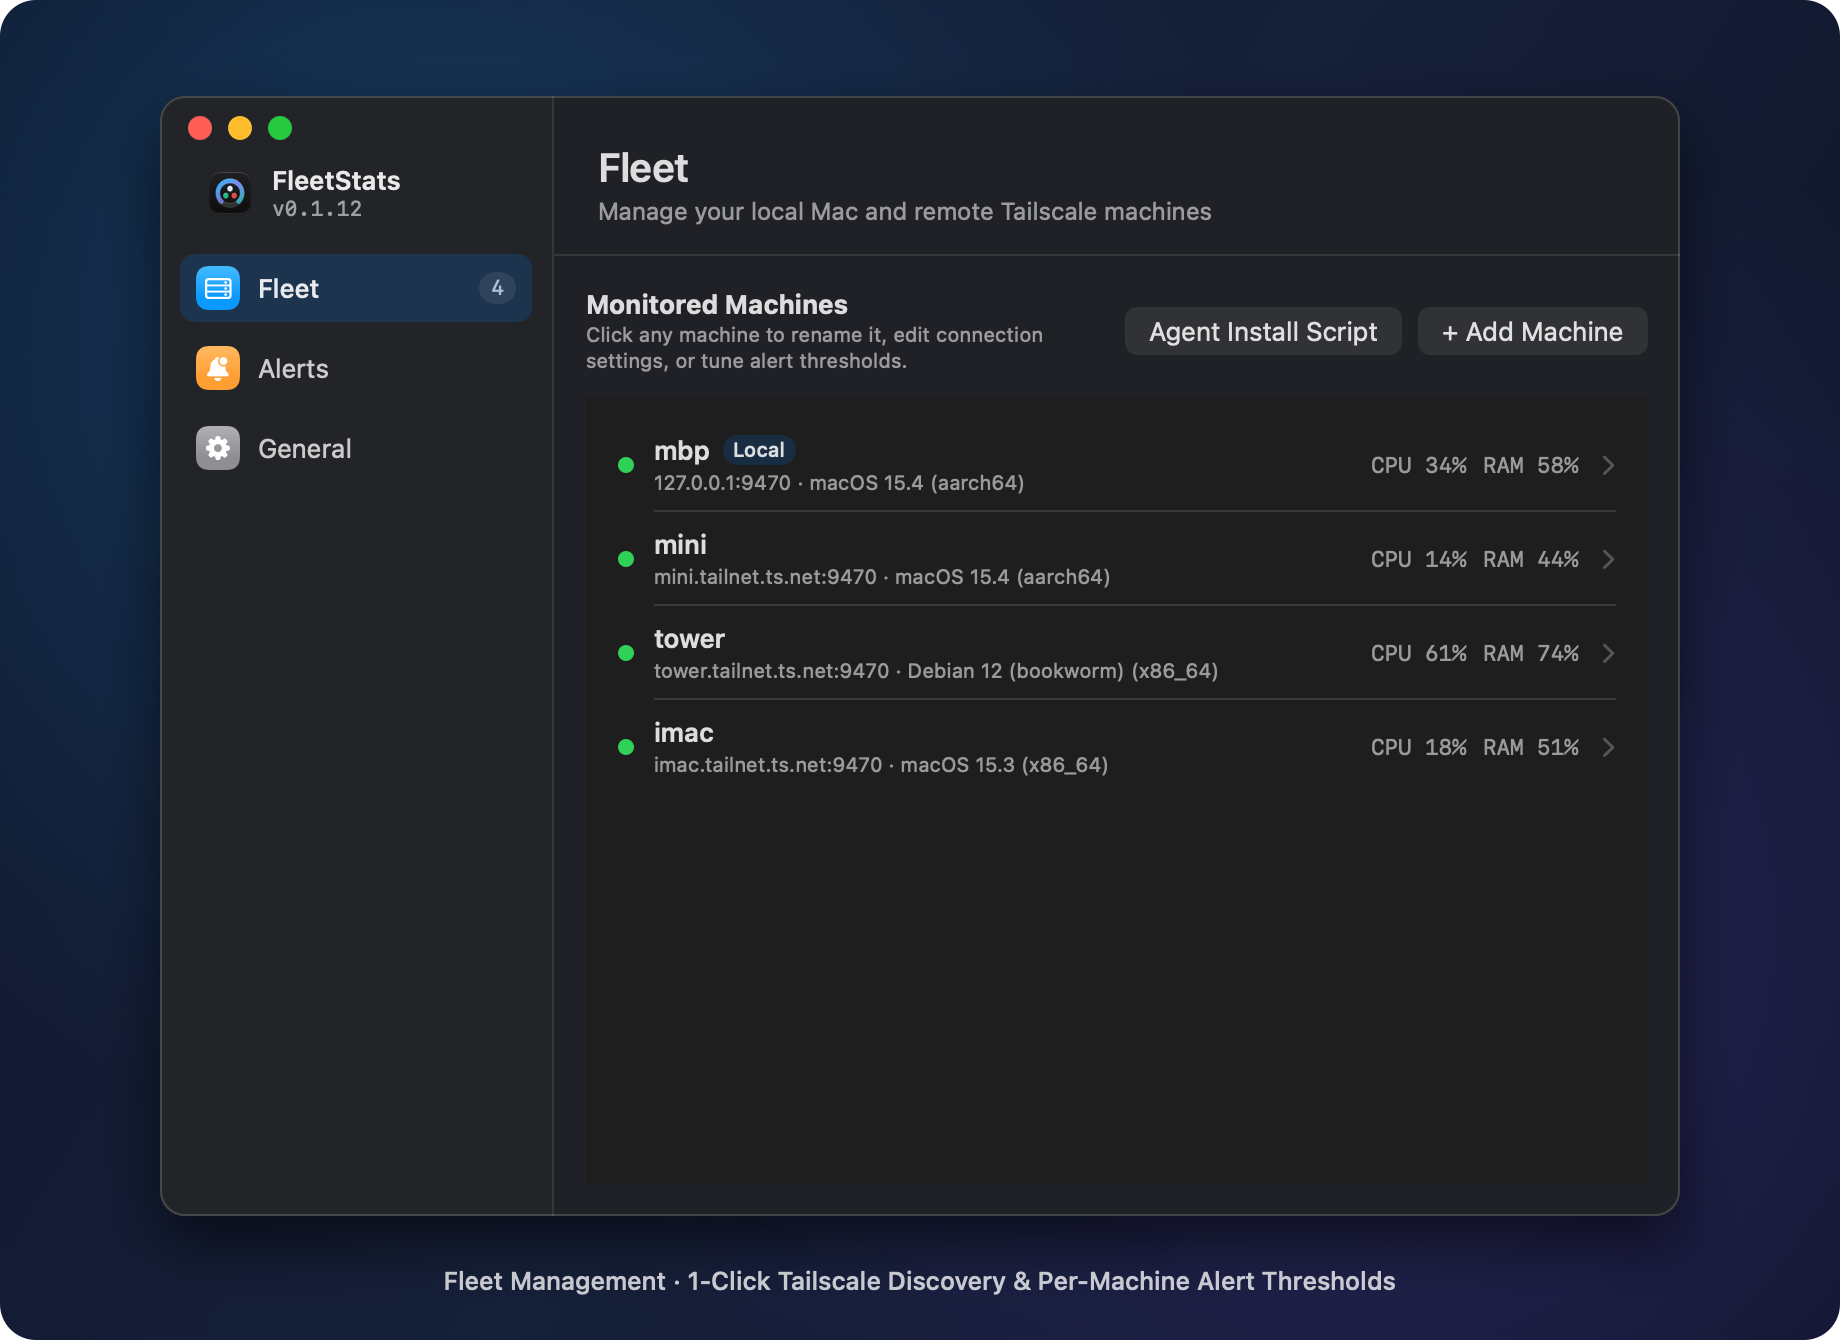
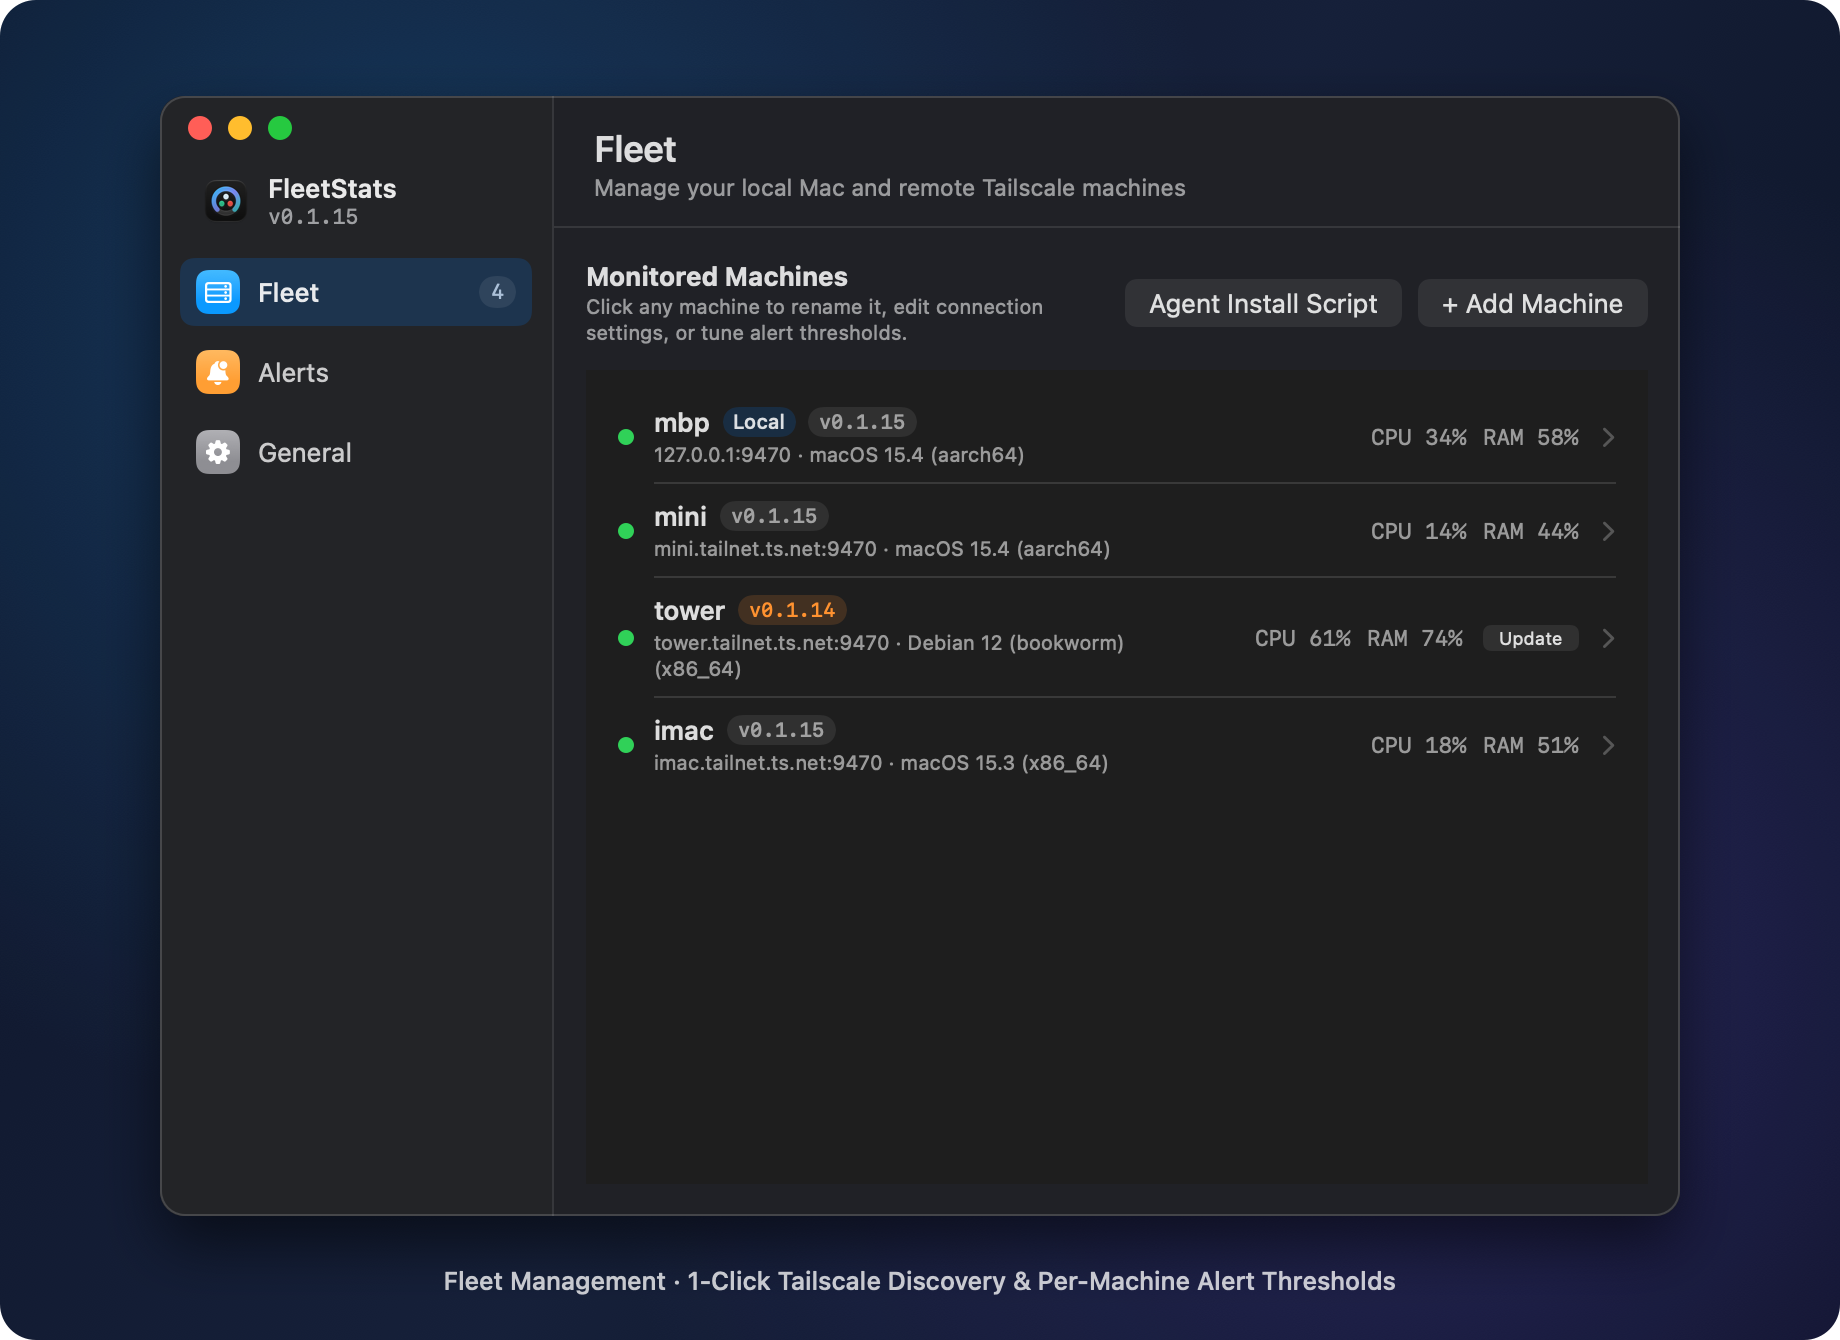
Tighten Settings window top bar spacing with full-height sidebar divider (v0.1.15)

diff --git a/apple/Apps/FleetStatsMac/Settings/SettingsView.swift b/apple/Apps/FleetStatsMac/Settings/SettingsView.swift
@@ -55,14 +55,12 @@ struct SettingsView: View {
             Divider()
             detailPane
         }
+        .ignoresSafeArea(.all, edges: .top)
         .frame(minWidth: 700, idealWidth: 760, minHeight: 500, idealHeight: 560)
     }
 
     private var sidebar: some View {
         VStack(alignment: .leading, spacing: 6) {
-            // Leave comfortable space for transparent titlebar traffic lights
-            Spacer().frame(height: 28)
-
             HStack(spacing: 8) {
                 if let icon = NSApp.applicationIconImage {
                     Image(nsImage: icon)
@@ -77,8 +75,9 @@ struct SettingsView: View {
                         .foregroundStyle(.secondary)
                 }
             }
-            .padding(.horizontal, 12)
-            .padding(.bottom, 10)
+            .padding(.horizontal, 10)
+            .padding(.top, 38)
+            .padding(.bottom, 8)
 
             ForEach(SettingsPane.allCases) { pane in
                 sidebarRow(pane)
@@ -138,14 +137,14 @@ struct SettingsView: View {
         VStack(alignment: .leading, spacing: 0) {
             VStack(alignment: .leading, spacing: 2) {
                 Text(selectedPane.title)
-                    .font(.system(size: 20, weight: .semibold))
+                    .font(.system(size: 18, weight: .semibold))
                 Text(selectedPane.subtitle)
-                    .font(.system(size: 12))
+                    .font(.system(size: 11.5))
                     .foregroundStyle(.secondary)
             }
-            .padding(.horizontal, 22)
-            .padding(.top, 24)
-            .padding(.bottom, 14)
+            .padding(.horizontal, 20)
+            .padding(.top, 16)
+            .padding(.bottom, 12)
 
             Divider()
 

diff --git a/apple/Apps/FleetStatsMac/App/ScreenshotRenderer.swift b/apple/Apps/FleetStatsMac/App/ScreenshotRenderer.swift
@@ -406,7 +406,7 @@ enum ScreenshotRenderer {
 
         let mbpState = HostRuntimeState()
         mbpState.status = .online
-        mbpState.agentVersion = "0.1.14"
+        mbpState.agentVersion = "0.1.15"
         mbpState.lastSeenAt = Date()
         mbpState.snapshot = decodeSnapshot(makeMacBookSnapshotJSON(nowMs: nowMs))
         mbpState.livePoints = makeHistory(nowMs: nowMs, cpuBase: 32, memBase: 58, netUpBase: 410_000, netDownBase: 4_350_000)
@@ -414,7 +414,7 @@ enum ScreenshotRenderer {
 
         let miniState = HostRuntimeState()
         miniState.status = .online
-        miniState.agentVersion = "0.1.14"
+        miniState.agentVersion = "0.1.15"
         miniState.lastSeenAt = Date()
         miniState.snapshot = decodeSnapshot(makeMacMiniSnapshotJSON(nowMs: nowMs))
         miniState.livePoints = makeHistory(nowMs: nowMs, cpuBase: 14, memBase: 44, netUpBase: 85_000, netDownBase: 320_000)
@@ -430,7 +430,7 @@ enum ScreenshotRenderer {
 
         let imacState = HostRuntimeState()
         imacState.status = .online
-        imacState.agentVersion = "0.1.14"
+        imacState.agentVersion = "0.1.15"
         imacState.lastSeenAt = Date()
         imacState.snapshot = decodeSnapshot(makeIMacSnapshotJSON(nowMs: nowMs))
         imacState.livePoints = makeHistory(nowMs: nowMs, cpuBase: 18, memBase: 51, netUpBase: 40_000, netDownBase: 180_000)

diff --git a/apple/Apps/FleetStatsMac/App/FleetStatsApp.swift b/apple/Apps/FleetStatsMac/App/FleetStatsApp.swift
@@ -113,19 +113,23 @@ final class AppDelegate: NSObject, NSApplicationDelegate {
     private func showSettingsWindow(pane: SettingsPane = .fleet) {
         NSApp.activate(ignoringOtherApps: true)
         if let win = settingsWindow {
-            win.contentViewController = NSHostingController(
+            let hosting = NSHostingController(
                 rootView: SettingsView(store: store, supervisor: supervisor, updater: updater, selectedPane: pane)
             )
+            hosting.safeAreaRegions = []
+            win.contentViewController = hosting
             win.makeKeyAndOrderFront(nil)
             return
         }
         let hosting = NSHostingController(
             rootView: SettingsView(store: store, supervisor: supervisor, updater: updater, selectedPane: pane)
         )
+        hosting.safeAreaRegions = []
         let win = NSWindow(contentViewController: hosting)
         win.title = "FleetStats Settings"
         win.titleVisibility = .hidden
         win.titlebarAppearsTransparent = true
+        win.isMovableByWindowBackground = true
         win.styleMask = [.titled, .closable, .miniaturizable, .resizable, .fullSizeContentView]
         win.setContentSize(NSSize(width: 760, height: 560))
         win.minSize = NSSize(width: 700, height: 500)
